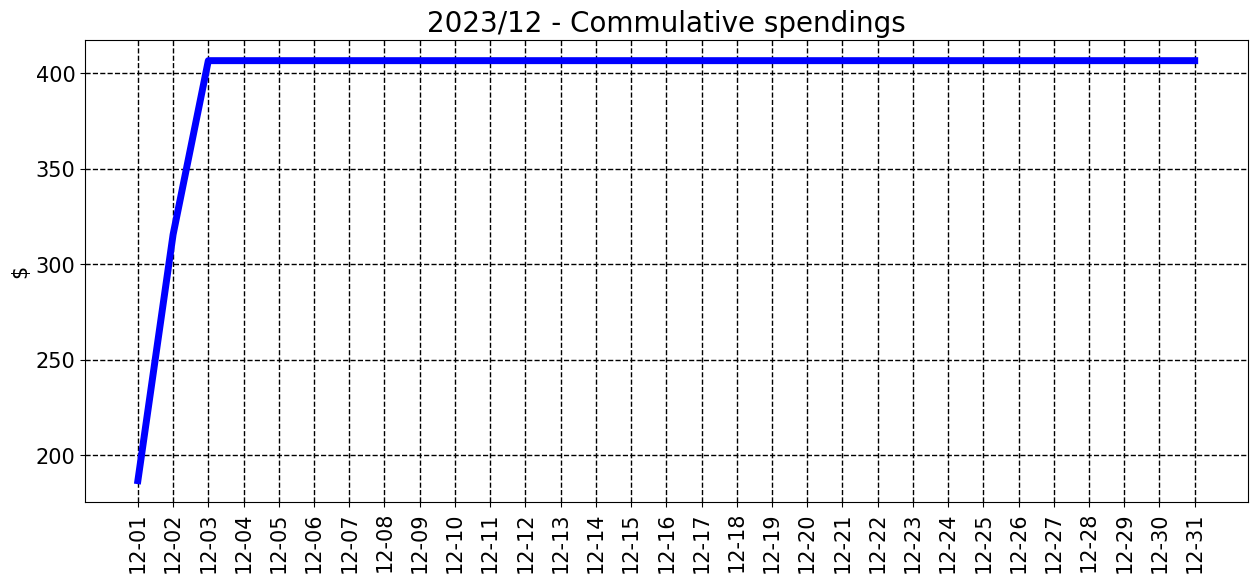
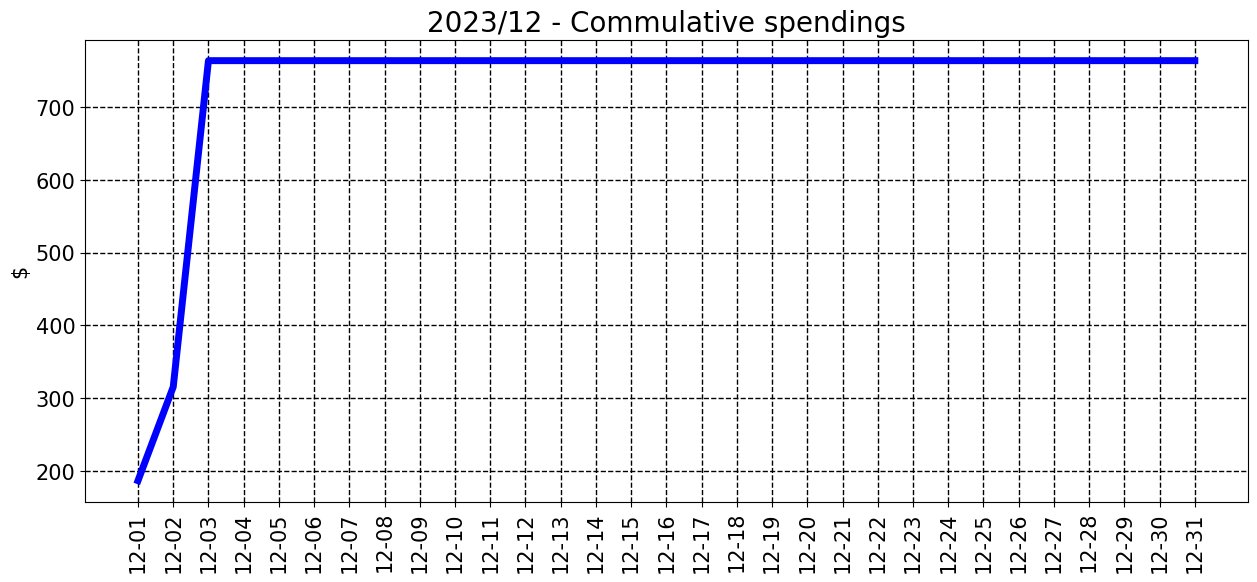
commit from python

diff --git a/README.md b/README.md
@@ -7,7 +7,7 @@ __________________________________
 <sub><sup>
 | Spent | Avg daily | End of month projection | Spent since 2023/7 |
 |---|---|---|---|
-| $406.0  |  $135.5  | $4200.0  |  $27977.0  |
+| $764.0  |  $254.7  | $7896.0  |  $28334.0  |
 </sub></sup>
 __________________________________
 ![graph_12_sum](graph_12_sum.png)
